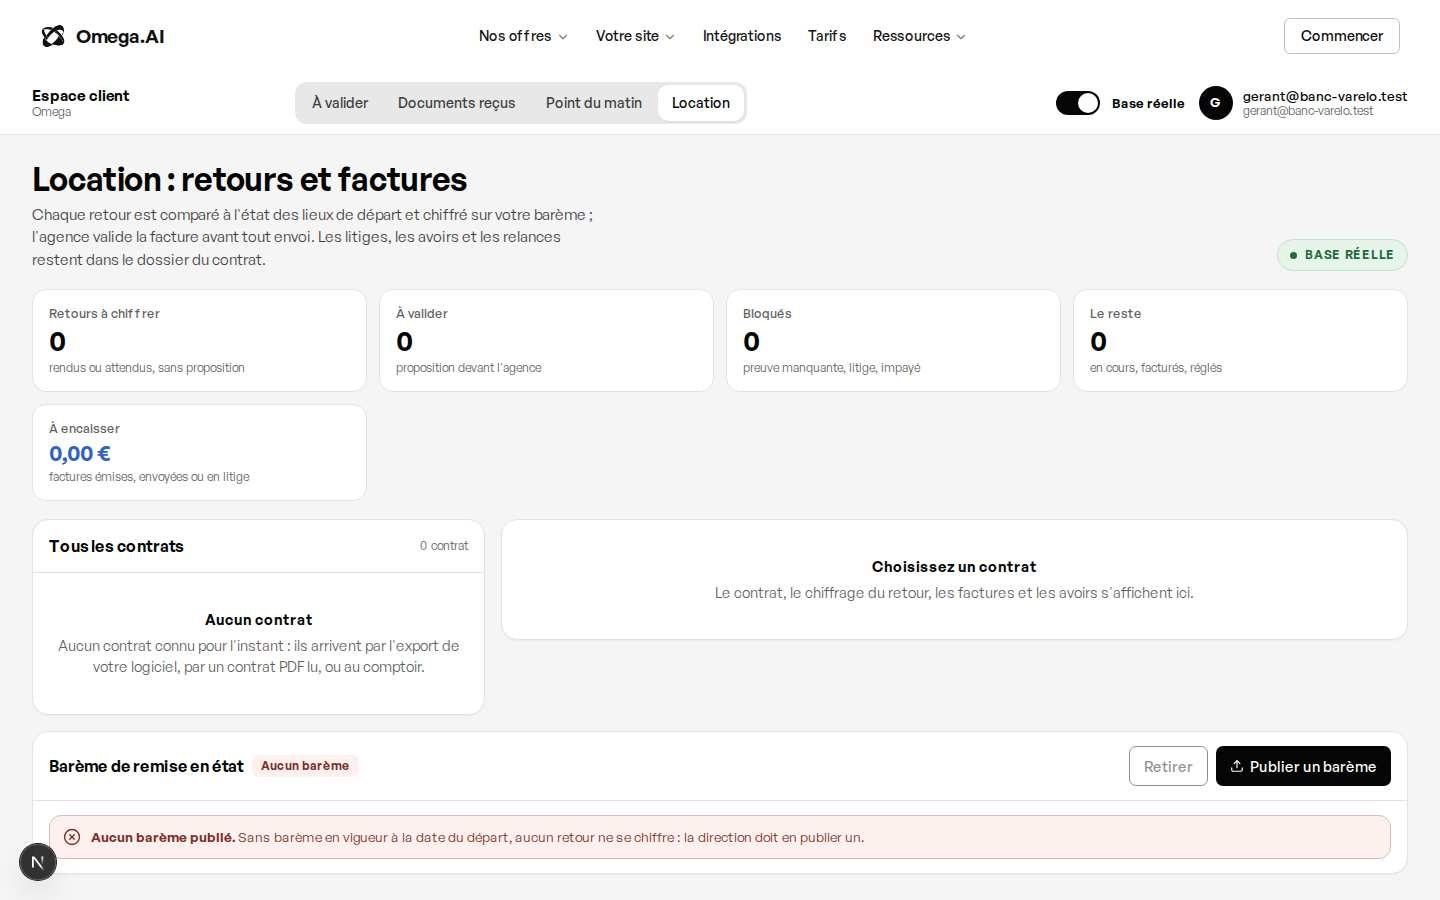
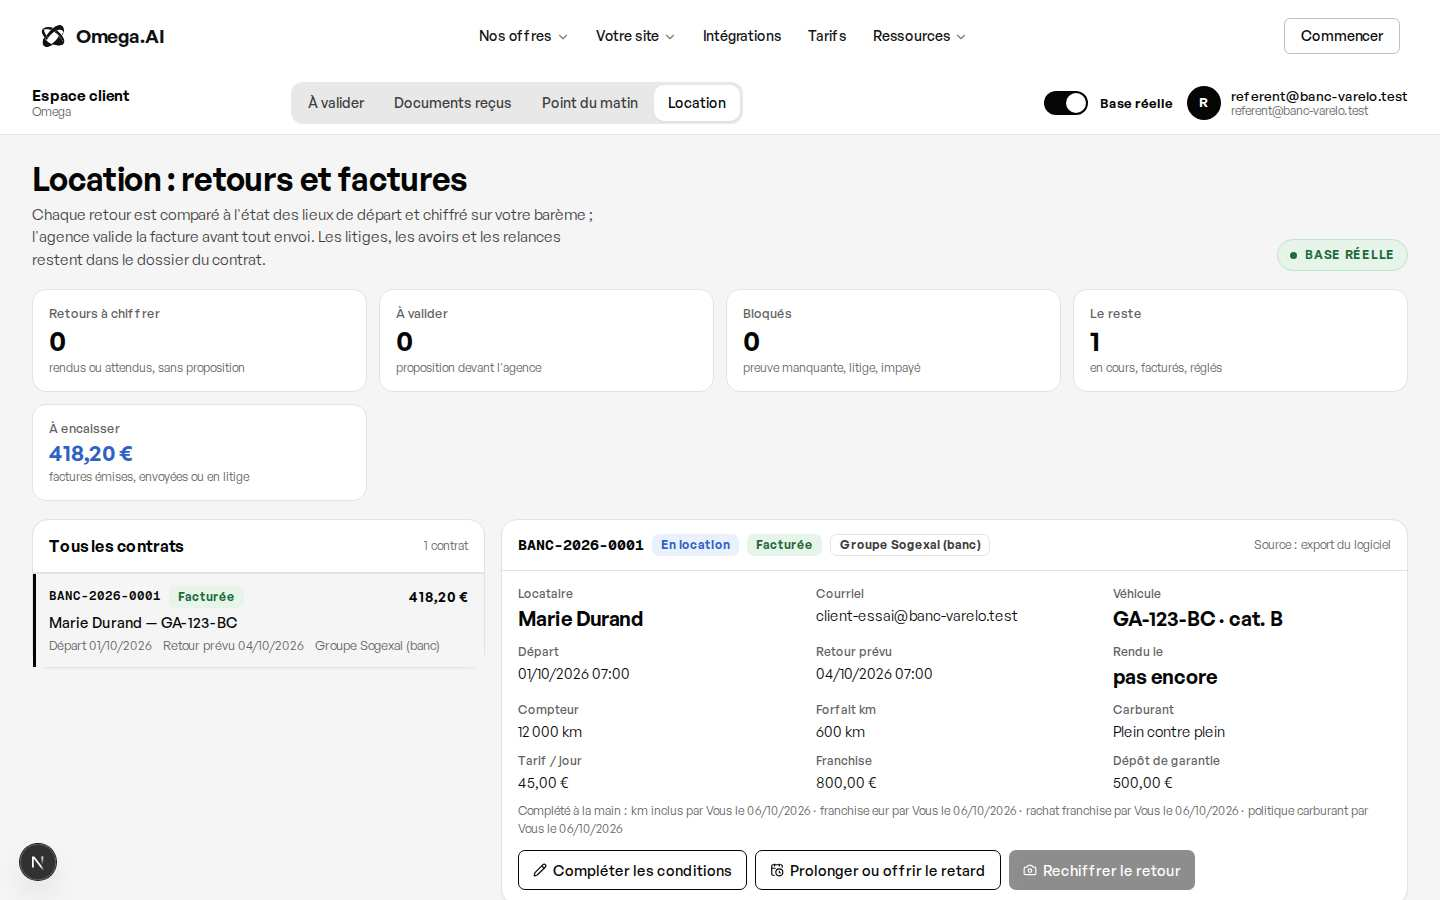
/espace/tavaro : « Rendu le » lit l'heure du retour chiffré quand l'export n'a pas encore clos le contrat ; relecture réelle avec le référent du banc, un geste joué par la porte (captures)
Claude-Session: https://claude.ai/code/session_01FifCHkLgBbAZrwtHTGDvzP

diff --git a/components/espace/tavaro/DossierContrat.tsx b/components/espace/tavaro/DossierContrat.tsx
@@ -124,6 +124,8 @@ export default function DossierContrat({ dossier, source, role, moi, bareme, reg
   const prolongation = dossier.amendements.filter((a) => a.retour_prevu_le).sort((a, b) => (b.retour_prevu_le ?? "").localeCompare(a.retour_prevu_le ?? ""))[0] ?? null;
   const retourPrevu = prolongation?.retour_prevu_le && prolongation.retour_prevu_le > c.retour_prevu_le ? prolongation.retour_prevu_le : c.retour_prevu_le;
   const agence = agences.find((a) => a.entite_id === c.entite_id);
+  /* le retour chiffré porte l'heure de restitution (entrees.retour_reel_le) tant que l'export ne l'a pas écrite sur le contrat */
+  const renduLe = c.retour_reel_le ?? (p && typeof p.entrees.retour_reel_le === "string" ? p.entrees.retour_reel_le : null);
 
   const peutAgir = role !== null && role !== "lecteur";
   const peutAmender = role === "gerant" || role === "admin" || role === "valideur";
@@ -185,7 +187,7 @@ export default function DossierContrat({ dossier, source, role, moi, bareme, reg
         <div className="esp-carte-tete">
           <div className="esp-item-haut">
             <span className="esp-mono" style={{ fontWeight: 700, fontSize: 15 }}>{c.numero}</span>
-            <Pastille teinte={STATUTS_CONTRAT[c.statut].teinte}>{STATUTS_CONTRAT[c.statut].libelle}</Pastille>
+            <Pastille teinte={c.statut === "ouvert" && renduLe ? "gris" : STATUTS_CONTRAT[c.statut].teinte}>{c.statut === "ouvert" && renduLe ? "Rendu" : STATUTS_CONTRAT[c.statut].libelle}</Pastille>
             {p ? <Pastille teinte={STATUTS_PROPOSITION[p.statut].teinte}>{STATUTS_PROPOSITION[p.statut].libelle}</Pastille> : null}
             {p?.hors_bareme ? <Pastille teinte="ambre">Hors barème</Pastille> : null}
             {dossier.factures.some((f) => f.statut === "litige") ? <Pastille teinte="rouge">Litige</Pastille> : null}
@@ -200,7 +202,7 @@ export default function DossierContrat({ dossier, source, role, moi, bareme, reg
             <Def etiquette="Véhicule" fort>{vehicule ? `${vehicule.immatriculation}${vehicule.modele ? ` · ${vehicule.modele}` : ""}` : "—"}{categorie ? ` · cat. ${categorie.code}` : ""}</Def>
             <Def etiquette="Départ">{dateHeure(c.depart_le)}</Def>
             <Def etiquette="Retour prévu">{dateHeure(retourPrevu)}{prolongation ? <span className="esp-kpi-sous"> · {AMENDEMENTS[prolongation.type].toLowerCase()}</span> : null}</Def>
-            <Def etiquette="Rendu le" fort>{c.retour_reel_le ? dateHeure(c.retour_reel_le) : "pas encore"}</Def>
+            <Def etiquette="Rendu le" fort>{renduLe ? dateHeure(renduLe) : "pas encore"}</Def>
             <Def etiquette="Compteur">{c.km_depart !== null ? `${nombreFr(c.km_depart)} km` : "—"}{c.km_retour !== null ? ` → ${nombreFr(c.km_retour)} km` : ""}</Def>
             <Def etiquette="Forfait km">{c.km_illimite ? "illimité" : c.km_inclus !== null ? `${nombreFr(c.km_inclus)} km` : c.km_inclus_jour !== null ? `${nombreFr(c.km_inclus_jour)} km / jour` : <span className="esp-obligatoire">inconnu</span>}</Def>
             <Def etiquette="Carburant">{c.politique_carburant ? POLITIQUES[c.politique_carburant] : <span className="esp-obligatoire">inconnue</span>}{c.politique_carburant === "seuil" && c.seuil_charge_pct !== null ? ` (${c.seuil_charge_pct} %)` : ""}</Def>

diff --git a/components/espace/tavaro/EcranTavaro.tsx b/components/espace/tavaro/EcranTavaro.tsx
@@ -343,7 +343,7 @@ export default function EcranTavaro() {
                       <span className="esp-item-titre">{nomLocataire(d.locataire)}{d.vehicule ? ` — ${d.vehicule.immatriculation}${d.vehicule.modele ? ` · ${d.vehicule.modele}` : ""}` : ""}</span>
                       <span className="esp-item-bas">
                         <span>Départ {dateCourte(d.contrat.depart_le)}</span>
-                        <span>{d.contrat.retour_reel_le ? `Rendu ${dateCourte(d.contrat.retour_reel_le)}` : `Retour prévu ${dateCourte(d.contrat.retour_prevu_le)}`}</span>
+                        <span>{d.contrat.retour_reel_le ? `Rendu ${dateCourte(d.contrat.retour_reel_le)}` : p && typeof p.entrees.retour_reel_le === "string" ? `Rendu ${dateCourte(p.entrees.retour_reel_le)}` : `Retour prévu ${dateCourte(d.contrat.retour_prevu_le)}`}</span>
                         <span>{nomAgenceDe(d.contrat.entite_id)}</span>
                       </span>
                     </button>

diff --git a/omega/NOTES-B2.md b/omega/NOTES-B2.md
@@ -7,7 +7,7 @@ Branche `worker-b2`. Coordinateur : session_01B4JNQXyT69GytdvE9SjAnE. Dernière 
 | Jauge | Où on en est | Ce qui manque pour 100 % |
 |---|---|---|
 | **Mécanique** (le socle fait ce que la vitrine promet, prouvé sur la recette) | **95 %** — 11 fichiers de tests sur 11 verts sur la recette ; **parcours réel sur le banc prouvé** : barème, contrat, retour chiffré, approbation, deux factures émises, courriel parti par Brevo et remis chez Teo, factures « envoyée », relance préparée, validée et mise au délai minimal du socle (départ le 09/10) ; b2_01 v2 et b2_02 v2 posées | la remise effective de la relance le 09/10 (cron) ; le PDF de facture joint au courriel (hors vague) | le TAP vert sur la recette ; corrections jusqu'au vert ; l'envoi réel d'une facture et d'une relance (mode essai, Brevo) prouvé sur le banc |
-| **Livrable client** (un loueur ouvre /espace/tavaro et travaille) | **75 %** — l'écran existe, tsc / eslint / build verts, recette aux cinq largeurs verte, onglet « Location » posé, **relecture en base réelle faite avec le gérant du banc** (lecture de tout le parking sous RLS sans aucun refus ; capture `omega/recette-b2/reel-tavaro-1440.jpg`) ; Realtime et Storage posés par le coordinateur | les gestes réels depuis l'écran (compléter, chiffrer, litige, avoir, relance) une fois le banc garni par `banc_01_parcours_reel.sql` : à rejouer avec `--geste=…` et un compte referent/daf ; la vérification de la page servie par omegaai.fr après fusion |
+| **Livrable client** (un loueur ouvre /espace/tavaro et travaille) | **85 %** — fusionné sur main (b287d04) ; **un geste réel joué depuis l'écran** sur le banc avec le référent (compléter les conditions de BANC-2026-0001 : la porte répond, les saisies portent son nom, capture `reel-tavaro-completer-1440.jpg`) ; l'écran lit le parking réel du banc (1 contrat facturé, 418,20 € à encaisser, 5 lignes de barème) — l'écran existe, tsc / eslint / build verts, recette aux cinq largeurs verte, onglet « Location » posé, relecture en base réelle faite avec le gérant puis le référent du banc (lecture de tout le parking sous RLS sans aucun refus ; capture `omega/recette-b2/reel-tavaro-1440.jpg`) ; Realtime et Storage posés par le coordinateur | les gestes réels depuis l'écran (compléter, chiffrer, litige, avoir, relance) une fois le banc garni par `banc_01_parcours_reel.sql` : à rejouer avec `--geste=…` et un compte referent/daf ; la vérification de la page servie par omegaai.fr après fusion |
 
 **Ce que Teo doit fournir lui-même** (rien ne le remplace) :
 - le barème réel d'un loueur (codes, prix, TVA, catégories) pour remplacer celui d'exemple ;
@@ -92,6 +92,8 @@ Deux restes (historique) : (1) la relance (bloc D) a échoué — `preparer_envo
 
 - 06/10, 01 h 45 (reprise après la pause de Teo) : **relecture en base réelle** — `omega/recette-b2/ouvrir-session.mjs` (session par mot de passe, fichier hors dépôt) puis `relecture-reelle.mjs` sur un `next dev` pointé sur la recette (clé publique transmise par le coordinateur). Résultat avec `gerant@banc-varelo.test` : identité affichée, interrupteur « Base réelle », tout le parking lu sous RLS (0 contrat, 0 barème : le banc est vierge, l'écran dit « Aucun barème publié » comme attendu), **aucun refus de la base en console**, aucun avis rouge inattendu. Deux faits de l'environnement de recette, pas de l'écran : le Chromium headless ne lit pas le magasin NSS où la CA du mandataire sortant est posée (ERR_CERT_AUTHORITY_INVALID → « Failed to fetch ») : le script lui fait accepter ce certificat pour la relecture seulement ; et la poignée de main WebSocket Realtime échoue derrière le mandataire (même constat qu'A3), à vérifier depuis un navigateur ordinaire.
 - **État exact à cet instant** : lot 1 (tests + b2_01/b2_02) relu par le coordinateur sur 66f1d09, TAP attendu ; lot 2 (écran) prêt à fusionner ; `banc_01_parcours_reel.sql` attend TOUT_B2 vert et la ligne `reglages_envois` tavaro. **Prochaine étape** : corriger ce que le TAP rendra, puis rejouer la relecture réelle avec `--geste=completer` sur le contrat BANC-2026-0001 une fois le banc garni.
+
+- 06/10, 02 h 35 : **relecture réelle avec le référent du banc, un geste joué pour de vrai** (`relecture-reelle.mjs … --geste=completer`) : l'écran lit le contrat BANC-2026-0001 facturé (418,20 € à encaisser, 5 lignes de barème), « Compléter les conditions » appelle `loc_completer_contrat` (forfait 600 → 650 km), la base répond, le dossier se relit avec « complété à la main : km inclus par Vous ». Vu au passage et corrigé (f5069b8+) : le contrat reste « En location » / « Rendu le : pas encore » après un retour chiffré, parce que `loc_chiffrer_retour` garde l'heure de restitution dans `proposition.entrees` sans l'écrire sur le contrat (c'est l'export qui le clôt) ; l'écran lit désormais l'heure du retour chiffré en repli et dit « Rendu ». omegaai.fr répond encore 404 sur /espace/tavaro à 00 h 35 Z (quota Vercel) : à revérifier.
 
 ## 5. Ce que les tests attendent du socle (à confirmer par le coordinateur, sinon les tests le diront)
 
